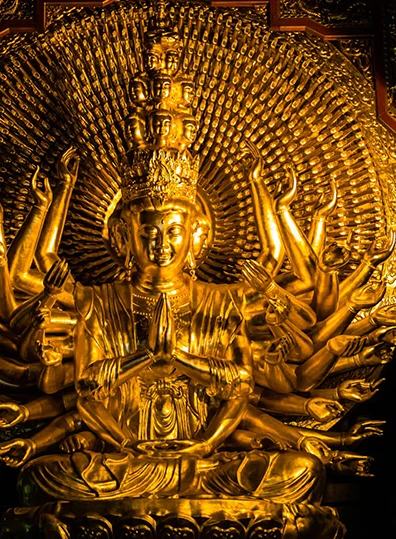
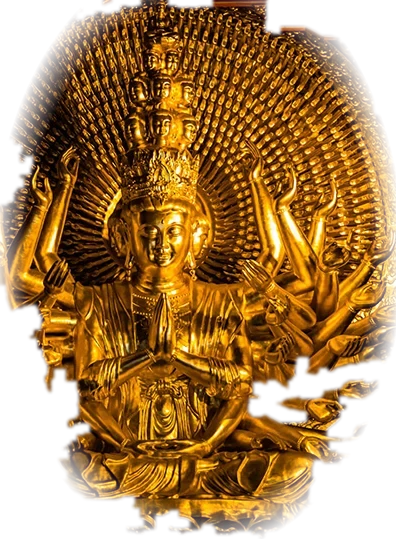
Quan Âm nghìn tay tách nền, đặt trong cảnh (ao sen Một Cột, biển Linh Ứng, hang chùa Hương) thay vì dán ảnh chữ nhật; giờ tụng kinh có 3 vị sư khoác cà sa ngồi giữa hàng đầu chánh điện, gõ mõ, có chuông; cân bằng công đức: tu tập miễn phí tối đa 300/ngày (lễ vật mua & hòm công đức không giới hạn), đ
Claude-Session: https://claude.ai/code/session_01BG8B92ZXXVKjeiGx2spFjc

diff --git a/chua-binh-an/js/g3d/main.js b/chua-binh-an/js/g3d/main.js
@@ -43,6 +43,17 @@ function addBeads(n, why) {
   const lv0 = levelOf(P.beads); P.beads += n; save(); hud();
   if (levelOf(P.beads) > lv0) { const L = C.levels[levelOf(P.beads)]; banner('🪷 Thăng cấp', `Cấp ${levelOf(P.beads) + 1} · ${L.name}`); A.smallBell(); }
 }
+/* công đức từ tu tập miễn phí (hương, mõ, lễ vật thường, đèn nguyện) có giới hạn mỗi ngày → bảng công đức & hào quang công bằng;
+   lễ vật mua bằng hoa sen và hòm công đức không giới hạn */
+function addMerit(n, free) {
+  if (!free) { P.merit += n; return n; }
+  const d = kinhVN(), key = `${d.getFullYear()}-${d.getMonth() + 1}-${d.getDate()}`, cap = (C.meritDailyCap ?? 300);
+  if (P.mfDay !== key) { P.mfDay = key; P.mfToday = 0; }
+  const g = Math.max(0, Math.min(n, cap - P.mfToday)); P.mfToday += g; P.merit += g;
+  if (g < n && addMerit.warned !== key) { addMerit.warned = key; toast(`🪷 Hôm nay đã đủ ${cap} công đức tu tập · vẫn được cộng hạt, mai tiếp tục nhé`); }
+  return g;
+}
+const meritTxt = (g) => g ? `+${g} công đức` : 'đã đủ công đức hôm nay';
 function checkIn() {
   const d = new Date(Date.now() + (new Date().getTimezoneOffset() + 420) * 60000), key = `${d.getFullYear()}-${d.getMonth() + 1}-${d.getDate()}`;
   if (P.lastDay === key) return;
@@ -84,11 +95,12 @@ Object.assign(sun.shadow.camera, { left: -30, right: 30, top: 30, bottom: -30, n
 let W = null, temple = null, smokes = [];
 const me = { av: null, pos: new THREE.Vector3(), y: 0, yaw: 0, seated: null, busy: null, label: null };
 const cam = { yaw: 0, pitch: 0.38, dist: 6.5 };   // yaw 0: camera ở phía +z sau lưng, nhìn về -z (phía chùa)
-const npcs = []; let abbot = null;
+const npcs = []; let abbot = null, monks = null;   // monks: 3 vị sư tụng kinh (chỉ trong giờ tụng)
 
 let meritLbl = null;
 function disposeWorld() {
   if (!W) return;
+  hideMonks();
   scene.remove(W.root); W.root.traverse(o => { if (o.geometry) o.geometry.dispose(); });
   smokes.forEach(s => s.dispose && s.dispose()); smokes = [];
   [...npcs, abbot].forEach(n => n && n.label && n.label.remove()); npcs.length = 0; abbot = null;
@@ -172,6 +184,7 @@ function npcThink(n, dt) {
     const hall = W.halls[0];
     if (hall && Math.random() < (n.hall ? 0.92 : 0.45)) { const free = hall.cushions.filter(c => !c.taken && !(me.seated === c)); if (free.length) { const c = free[(Math.random() * free.length) | 0]; c.taken = true; n.target = c.clone(); n.goSit = c; } }
     if (!n.target) {
+      if (n.hall && hall && monks) { n.wait = 3; return false; }   // đang tụng kinh: không đi qua lại trước quý thầy
       if (n.hall && hall) { const a = hall.altar; n.target = new THREE.Vector3(a.x + (Math.random() - 0.5) * 4, 0, a.z + 2.5 + Math.random() * 2.5); }   // bot trong điện quanh quẩn gần bàn thờ
       else { const L = W.layout; n.target = new THREE.Vector3(L.spawn[0] + (Math.random() - 0.5) * 22, 0, L.spawn[1] - Math.random() * 18); }
     }
@@ -333,7 +346,7 @@ function offerIncense(bur) {
   me.yaw = Math.atan2(bur.x - me.pos.x, bur.z - me.pos.z); cam.yaw = me.yaw + Math.PI; me.av.setPose('incense'); A.mo(1);
   if (S.voiceBow !== false) setTimeout(() => A.say('Nam mô A Di Đà Phật', { force: true, rate: 0.82, pitch: 0.85 }), 900);
   setTimeout(() => { me.av.bow(); }, 600); NET.act('incense');
-  setTimeout(() => { me.av.setPose('idle'); smokeBoost = 4; P.merit += 10; addBeads(10); toast('🕯 Đã thắp nén hương · +10 công đức'); }, 2800);
+  setTimeout(() => { me.av.setPose('idle'); smokeBoost = 4; const gm = addMerit(10, true); addBeads(10); toast('🕯 Đã thắp nén hương · ' + meritTxt(gm)); }, 2800);
 }
 let smokeBoost = 0;
 function ringBell() { if (Date.now() - (ringBell.t || 0) < 20000) return toast('Tiếng chuông còn đang ngân…'); ringBell.t = Date.now(); A.bigBell(); me.av.bow(); NET.act('bell'); addBeads(9); toast('🔔 Một hồi chuông vang xa · nguyện chúng sanh thức tỉnh'); }
@@ -470,7 +483,7 @@ async function runVoice(run) {
 function chantBeat(manual) {
   if (!ch) return;
   A.mo(manual ? 1 : 0.7); paintMo(1);
-  if (manual) { ch.taps++; P.merit += 1; addBeads(1); $('cMerit').textContent = `+${ch.taps} công đức`; }
+  if (manual) { ch.taps++; ch.got = (ch.got || 0) + addMerit(1, true); addBeads(1); $('cMerit').textContent = `+${ch.got} công đức`; }
   if (!$('optVoice').checked && ++ch.beats >= 4) nextChantLine();
 }
 function restartMo() { clearInterval(moTimer); if ($('optAuto').checked) moTimer = setInterval(() => chantBeat(false), 60000 / (+$('optTempo').value || 60)); }
@@ -632,7 +645,7 @@ function carryOffering(o) {
       const fly = () => { const k = Math.min(1, (performance.now() - t0) / 700); item.position.lerpVectors(from, slot, k); item.position.y += Math.sin(k * Math.PI) * 0.25; if (k < 1) requestAnimationFrame(fly); };
       fly();
       me.av.setPose('idle'); setTimeout(() => { me.av.bow(); A.smallBell(); if (S.voiceBow !== false) A.say('Nam mô A Di Đà Phật', { force: true, rate: 0.82, pitch: 0.85 }); }, 600);
-      P.merit += o.m; addBeads(o.m); toast(`${o.icon} Đã dâng ${o.n.toLowerCase()} · +${o.m} công đức`); ticker(`${o.icon} ${P.name} vừa dâng ${o.n.toLowerCase()} lên Tam Thế Phật`); NET.act('offer', o.n.toLowerCase());
+      const gm = addMerit(o.m, !o.price); addBeads(o.m); toast(`${o.icon} Đã dâng ${o.n.toLowerCase()} · ${meritTxt(gm)}`); ticker(`${o.icon} ${P.name} vừa dâng ${o.n.toLowerCase()} lên Tam Thế Phật`); NET.act('offer', o.n.toLowerCase());
     });
   };
   const inside = insideHall(h);
@@ -641,7 +654,9 @@ function carryOffering(o) {
 
 /* Đèn nguyện */
 const lanterns = [];
+let lastLantern = 0;
 function openWish() {
+  const wait = 120000 - (Date.now() - lastLantern); if (wait > 0) return toast(`🏮 Đèn nguyện trước còn đang bay · đợi ${Math.ceil(wait / 1000)} giây`);
   modal('Thả đèn nguyện', (b) => {
     const ta = el('textarea'); ta.id = 'wish'; ta.rows = 3; ta.maxLength = 80; ta.placeholder = 'VD: Nguyện cho mẹ con mau khỏe, gia đình bình an';
     const err = el('p', 'note warn'); err.hidden = true;
@@ -670,6 +685,7 @@ function lanternMesh() {
   return g;
 }
 function releaseLantern(text) {
+  lastLantern = Date.now();
   const g = lanternMesh(); g.userData.tmp = true;
   const h = W.halls[0], inHall = h && insideHall(h);
   // trong chánh điện: đèn bay lên trước Tam Thế Phật
@@ -680,7 +696,7 @@ function releaseLantern(text) {
   const lbl = label('🏮 ' + text, 'wishlbl'); lbl.title = text;
   const tgt = inHall ? h.altar.clone().lerp(me.pos, 0.35) : null;
   lanterns.push({ g, t: 0, lbl, tgt, seed: Math.random() * 6, ceil: inHall ? h.ceilY : 0 });
-  P.merit += 5; addBeads(5); toast('🏮 Đèn nguyện đã bay lên · +5 công đức'); A.khanh();
+  const gm = addMerit(5, true); addBeads(5); toast('🏮 Đèn nguyện đã bay lên · ' + meritTxt(gm)); A.khanh();
   ticker(`🏮 ${P.name} vừa thả đèn nguyện: “${text}”`); NET.act('lantern');
   if (S.voiceBow !== false) setTimeout(() => A.say('Nam mô A Di Đà Phật', { force: true, rate: 0.82, pitch: 0.85 }), 700);
   save();
@@ -876,9 +892,10 @@ $('kinhBar').onclick = () => {
   kinhTick(true);
 };
 function kinhTick(force) {
-  if (!W) { if (kinhAudio) stopKinh(); $('kinhBar').hidden = true; kinhWinNow = null; return; }
+  if (!W) { if (kinhAudio) stopKinh(); $('kinhBar').hidden = true; kinhWinNow = null; hideMonks(); return; }
   const win = currentKinhWindow(); kinhWinNow = win;
-  if (!win) { stopKinh(); $('kinhBar').hidden = true; return; }
+  if (!win) { stopKinh(); $('kinhBar').hidden = true; hideMonks(); return; }
+  showMonks();
   // thông báo cho mọi người khi tới giờ (mỗi khung một lần)
   if (win.id !== kinhNotified) {
     kinhNotified = win.id;
@@ -890,6 +907,56 @@ function kinhTick(force) {
   if (!inHall) { pauseKinh(); $('kinhBar').hidden = true; return; }
   showKinhBar(win, muted);
   if (muted) pauseKinh(); else playKinh(win);
+}
+/* ---------------- giờ tụng kinh: 3 vị sư khoác cà sa ngồi giữa hàng đầu, gõ mõ, thỉnh chuông ---------------- */
+function monkSpots(h) {
+  const a = h.altar, cs = h.cushions; if (!cs.length) return null;
+  let cx = 0, cz = 0; cs.forEach(c => { cx += c.x; cz += c.z; }); cx /= cs.length; cz /= cs.length;
+  const L = Math.hypot(cx - a.x, cz - a.z) || 1, u = new THREE.Vector3((cx - a.x) / L, 0, (cz - a.z) / L), v = new THREE.Vector3(u.z, 0, -u.x);
+  const info = cs.map(c => ({ c, s: (c.x - a.x) * u.x + (c.z - a.z) * u.z, l: (c.x - a.x) * v.x + (c.z - a.z) * v.z }));
+  const f = Math.min(...info.map(i => i.s)), front = info.filter(i => i.s < f + 0.3), y = front[0].c.y;
+  if (!front.some(i => Math.abs(i.l) < 1.0)) {   // hàng đầu chừa lối giữa → sư ngồi ngay giữa lối đó
+    return { u, seats: [], spots: [-1.15, 0, 1.15].map(l => new THREE.Vector3(a.x + u.x * f + v.x * l, y, a.z + u.z * f + v.z * l)) };
+  }
+  const pick = front.filter(i => me.seated !== i.c).sort((p, q) => Math.abs(p.l) - Math.abs(q.l)).slice(0, 3).sort((p, q) => p.l - q.l);   // 3 đệm giữa hàng đầu
+  return { u, seats: pick.map(i => i.c), spots: pick.map(i => i.c.clone()) };
+}
+function showMonks() {
+  if (monks || !W || !W.halls[0]) return;
+  const h = W.halls[0], sp = monkSpots(h); if (!sp || sp.spots.length < 3) return;
+  sp.seats.forEach(c => { c.taken = true; npcs.forEach(n => { if (n.sit === c) { n.sit = null; n.av.setPose('idle'); n.wait = 0.3; } if (n.goSit === c) { n.goSit = null; n.target = null; } }); });
+  const props = new THREE.Group(); props.userData.tmp = true; scene.add(props);
+  const M = (c, o = {}) => new THREE.MeshStandardMaterial(Object.assign({ color: c, roughness: 0.6 }, o));
+  const list = sp.spots.map((p, i) => {
+    const av = new Avatar({ look: { g: 'nam', hair: 'troc' }, seed: 31 + i * 17, kasaya: true });
+    av.root.position.copy(p); av.root.rotation.y = Math.atan2(h.altar.x - p.x, h.altar.z - p.z); av.setPose('lotus'); av.root.userData.tmp = true; scene.add(av.root);
+    const mat = new THREE.Mesh(new THREE.CylinderGeometry(0.42, 0.44, 0.08, 24), M(0xe0a93a)); mat.position.set(p.x, p.y - 0.03, p.z); props.add(mat);   // tọa cụ vàng
+    return { av, label: i === 1 ? label('🙏 Chư Tăng đang tụng kinh', 'abbot') : null };   // một nhãn chung trên vị giữa, không chồng nhau
+  });
+  const fwd = (p, d) => new THREE.Vector3(p.x - sp.u.x * d, p.y, p.z - sp.u.z * d);
+  // mõ gỗ trước vị sư giữa + dùi gõ
+  const mp = fwd(sp.spots[1], 0.55);
+  const mo = new THREE.Mesh(new THREE.SphereGeometry(0.16, 16, 12), M(0x8a2414, { roughness: 0.45 })); mo.scale.set(1, 0.72, 0.9); mo.position.set(mp.x, mp.y + 0.13, mp.z); props.add(mo);
+  const moBase = new THREE.Mesh(new THREE.CylinderGeometry(0.2, 0.22, 0.05, 16), M(0xa3231a)); moBase.position.set(mp.x, mp.y + 0.02, mp.z); props.add(moBase);
+  const striker = new THREE.Group(); striker.position.set(mp.x + sp.u.z * 0.12, mp.y + 0.36, mp.z - sp.u.x * 0.12); striker.rotation.y = Math.atan2(sp.u.x, sp.u.z); props.add(striker);
+  const stick = new THREE.Mesh(new THREE.CylinderGeometry(0.012, 0.012, 0.26, 6), M(0x6a3a18)); stick.position.set(0, 0, 0.12); stick.rotation.x = Math.PI / 2; striker.add(stick);
+  const knob = new THREE.Mesh(new THREE.SphereGeometry(0.03, 8, 6), M(0x3a1a0c)); knob.position.set(0, 0, 0.25); striker.add(knob);
+  // chuông gia trì trước vị sư bên phải
+  const bp = fwd(sp.spots[2], 0.55);
+  const bellCush = new THREE.Mesh(new THREE.CylinderGeometry(0.17, 0.17, 0.07, 16), M(0xa3231a)); bellCush.position.set(bp.x, bp.y + 0.035, bp.z); props.add(bellCush);
+  const bell = new THREE.Mesh(new THREE.CylinderGeometry(0.15, 0.1, 0.16, 20, 1, true), M(0xc89a3a, { metalness: 0.7, roughness: 0.3, side: THREE.DoubleSide })); bell.position.set(bp.x, bp.y + 0.15, bp.z); props.add(bell);
+  monks = { list, seats: sp.seats, props, striker, t: 0 };
+  ticker('🙏 Quý thầy đã an tọa giữa hàng đầu chánh điện · bắt đầu khóa tụng');
+}
+function hideMonks() {
+  if (!monks) return;
+  monks.list.forEach(m => { scene.remove(m.av.root); if (m.label) m.label.remove(); }); scene.remove(monks.props);
+  monks.seats.forEach(c => { if (me.seated !== c) c.taken = false; }); monks = null;
+}
+function stepMonks(dt) {
+  if (!monks) return; monks.t += dt;
+  monks.list.forEach(m => { m.av.update(dt, false); if (m.label) placeLabel(m.label, m.av.root.position, m.av.height + 0.15); });
+  const ph = (monks.t * 1.65) % 1; monks.striker.rotation.x = ph < 0.18 ? 0.55 * Math.sin(ph / 0.18 * Math.PI) : 0;   // gõ mõ đều tay
 }
 setInterval(() => kinhTick(), 1000);
 
@@ -1508,7 +1575,7 @@ function loop() {
     sun.position.set(me.pos.x + 25, 45, me.pos.z + 20); sun.target.position.copy(tgt);
     // NPC, sư trụ trì, nhãn
     npcs.forEach(n => { const mv = npcThink(n, dt); n.av.update(dt, mv); placeLabel(n.label, n.av.root.position, n.av.height + 0.15); });
-    NET.step(dt);
+    NET.step(dt); stepMonks(dt);
     if (abbot) { abbot.av.update(dt, false); abbot.av.root.rotation.y = Math.atan2(me.pos.x - abbot.av.root.position.x, me.pos.z - abbot.av.root.position.z); placeLabel(abbot.label, abbot.av.root.position, abbot.av.height + 0.15); }
     placeLabel(me.label, me.av.root.position, me.av.height + 0.15);
     chatStep(); stepMeCushion(t);

diff --git a/chua-binh-an/js/g3d/avatar.js b/chua-binh-an/js/g3d/avatar.js
@@ -14,7 +14,18 @@ function auraTex() {
   _auraTex = new THREE.CanvasTexture(c); _auraTex.colorSpace = THREE.SRGBColorSpace; return _auraTex;
 }
 
-const ROBES = { lam: 0x6f86b8, nau: 0x9a6a42, xam: 0x8c8f9a, trang: 0xeeeef4, vang: 0xf0b93a, tang: 0xd9822b };
+let _kasayaTex = null;
+function kasayaTex() {   // cà sa: các ô ruộng (điền y) nâu đỏ, đường chỉ mảnh
+  if (_kasayaTex) return _kasayaTex;
+  const c = document.createElement('canvas'); c.width = c.height = 128; const g = c.getContext('2d');
+  g.fillStyle = '#b4561f'; g.fillRect(0, 0, 128, 128);
+  for (let i = 0; i < 5; i++) for (let j = 0; j < 4; j++) { g.fillStyle = (i + j) % 2 ? 'rgba(200,104,40,.55)' : 'rgba(150,66,22,.35)'; g.fillRect(i * 25.6 + 2, j * 32 + 2, 21.6, 28); }
+  g.strokeStyle = 'rgba(122,48,16,.9)'; g.lineWidth = 2; for (let x = 0; x <= 128; x += 25.6) { g.beginPath(); g.moveTo(x, 0); g.lineTo(x, 128); g.stroke(); }
+  for (let y = 0; y <= 128; y += 32) { g.beginPath(); g.moveTo(0, y); g.lineTo(128, y); g.stroke(); }
+  _kasayaTex = new THREE.CanvasTexture(c); _kasayaTex.colorSpace = THREE.SRGBColorSpace; _kasayaTex.wrapS = _kasayaTex.wrapT = THREE.RepeatWrapping; _kasayaTex.repeat.set(3, 1); return _kasayaTex;
+}
+
+const ROBES = { lam: 0x6f86b8, nau: 0x9a6a42, xam: 0x8c8f9a, trang: 0xeeeef4, vang: 0xf0b93a, tang: 0xd9822b, hau: 0xe9a83a };
 const SKINS = [0xf2c9a2, 0xe6b48a, 0xf6d6b4, 0xd29e74];
 const HAIRC = [0x1f1612, 0x2c1d14, 0x3a2618];
 const grad = (() => { const d = new Uint8Array([90, 170, 255]); const t = new THREE.DataTexture(d, 3, 1, THREE.RedFormat); t.minFilter = t.magFilter = THREE.NearestFilter; t.needsUpdate = true; return t; })();
@@ -35,16 +46,16 @@ const POSES = {
 };
 
 export class Avatar {
-  constructor({ look = {}, seed = 1, monk = false } = {}) {
+  constructor({ look = {}, seed = 1, monk = false, kasaya = false } = {}) {
     this.look = Object.assign({ g: 'nu', hair: 'bui', robe: 'lam' }, look);
     this.root = new THREE.Group(); this.root.userData.avatar = this;
-    this.pose = Object.assign({}, POSES.idle); this.target = 'idle'; this.walkT = 0; this.speed = 0; this.bowT = -1; this.monk = monk;
+    this.pose = Object.assign({}, POSES.idle); this.target = 'idle'; this.walkT = 0; this.speed = 0; this.bowT = -1; this.monk = monk || kasaya; this.kasaya = kasaya;
     this.skin = SKINS[seed % 4]; this.hairC = HAIRC[(seed >>> 2) % 3];
     this.build();
   }
   build() {
     const r = this.root; while (r.children.length) r.remove(r.children[0]);
-    const L = this.look, nu = L.g === 'nu', sk = T(this.skin), robeC = ROBES[this.monk ? 'tang' : L.robe] || ROBES.lam;
+    const L = this.look, nu = L.g === 'nu', sk = T(this.skin), robeC = ROBES[this.kasaya ? 'hau' : this.monk ? 'tang' : L.robe] || ROBES.lam;
     const robe = T(robeC), robeD = T(new THREE.Color(robeC).multiplyScalar(0.82)), gold = T(0xe0a93a), hairM = T(this.hairC), dark = T(0x2a1a14), bead = T(0xb7774a);
     this.hips = pivot(0, 0.5, 0); r.add(this.hips);
     // vạt áo dưới (dáng chuông)
@@ -99,7 +110,16 @@ export class Avatar {
     }
     if (hair === 'dai') put(head, part(new THREE.CapsuleGeometry(0.15, nu ? 0.3 : 0.12, 6, 12), hairM, 0, hy - (nu ? 0.28 : 0.15), -hr * 0.72)).scale.set(1.15, 1, 0.45);
     if (hair === 'ngan') head.add(part(new THREE.SphereGeometry(hr * 1.06, 24, 14, 0, Math.PI * 2, 0, Math.PI * 0.42), hairM, 0, hy + 0.01, -0.01));
-    if (this.monk) put(this.torso, part(new THREE.TorusGeometry(0.2, 0.035, 6, 24), T(0xa83a14), 0, 0.2, 0)).rotation.set(Math.PI / 2 - 0.2, -0.6, 0);
+    if (this.monk && !this.kasaya) put(this.torso, part(new THREE.TorusGeometry(0.2, 0.035, 6, 24), T(0xa83a14), 0, 0.2, 0)).rotation.set(Math.PI / 2 - 0.2, -0.6, 0);
+    if (this.kasaya) {   // áo cà sa khoác ngoài áo hậu vàng: phủ thân & vạt dưới, chừa vai phải, viền vàng chéo từ vai trái
+      const km = T(0xffffff, { map: kasayaTex(), side: THREE.DoubleSide });
+      const body = part(new THREE.LatheGeometry([[0.285, -0.01], [0.262, 0.16], [0.232, 0.3], [0.18, 0.39]].map(([r, y]) => new THREE.Vector2(r, y)), 28, Math.PI * 0.62, Math.PI * 1.62), km);
+      this.torso.add(body);
+      const skirtK = part(new THREE.LatheGeometry([[0.385, -0.295], [0.365, -0.22], [0.315, -0.08], [0.278, 0.025]].map(([r, y]) => new THREE.Vector2(r, y)), 28), km);
+      this.skirt.add(skirtK);   // co giãn cùng vạt áo khi ngồi
+      put(this.torso, part(new THREE.TorusGeometry(0.235, 0.022, 6, 30), T(0xf0c25a), 0, 0.2, 0)).rotation.set(Math.PI / 2 - 0.35, 0.75, 0);   // viền cà sa chéo ngực
+      put(this.torso, part(new THREE.SphereGeometry(0.035, 8, 6), T(0xf0c25a), -0.17, 0.33, 0.12));   // khoen cà sa trên vai trái
+    }
     // vầng hào quang (khi được Phật Quang chiếu)
     this.halo = part(new THREE.RingGeometry(0.3, 0.36, 40), new THREE.MeshBasicMaterial({ color: 0xffe08a, transparent: true, opacity: 0.9, side: THREE.DoubleSide, toneMapped: false }), 0, hy, -0.12); this.halo.visible = false; head.add(this.halo);
     this.apply();

diff --git a/chua-binh-an/js/temple3d.js b/chua-binh-an/js/temple3d.js
@@ -250,7 +250,7 @@ const BUDDHA_IMG = {
   adida:   ['assets/buddha/adida.webp', 576 / 700, 'one', true],
   duocsu:  ['assets/buddha/duocsu.webp', 442 / 700, 'one', true],
   dilac:   ['assets/buddha/dilac.webp', 617 / 700, 'one', true],
-  quanam:  ['assets/buddha/quanam.webp', 396 / 539, 'one', false]
+  quanam:  ['assets/buddha/quanam.webp', 396 / 539, 'one', true]
 };
 const ALTAR_LABEL = { tamthe: 'ĐẠI HÙNG BẢO ĐIỆN', thichca: 'ĐẠI HÙNG BẢO ĐIỆN', adida: 'CỰC LẠC BẢO ĐIỆN', duocsu: 'DƯỢC SƯ BẢO ĐIỆN', dilac: 'ĐẠI HÙNG BẢO ĐIỆN', quanam: 'QUAN ÂM BẢO ĐIỆN' };
 let _carved = null;
@@ -302,7 +302,7 @@ function altarPanel(g, w, d, base, h, set) {
   // 3) bức Phật đặt sâu trong khám
   const btex = texLoader.load(src); btex.colorSpace = THREE.SRGBColorSpace; btex.anisotropy = 4;
   // ảnh đã tách nền → vẽ trong suốt để lộ bức tranh nền phía sau; ảnh có nền sẵn → vẽ đặc
-  const imgMat = cut ? new THREE.MeshBasicMaterial({ map: btex, transparent: true, alphaTest: 0.35, toneMapped: false })
+  const imgMat = cut ? new THREE.MeshBasicMaterial({ map: btex, transparent: true, alphaTest: 0.04, depthWrite: false, toneMapped: false })
                      : new THREE.MeshBasicMaterial({ map: btex, toneMapped: false });
   const img = new THREE.Mesh(new THREE.PlaneGeometry(pw, ph), imgMat); img.position.set(0, cy, zf + 0.14); nc(img);
   if (!cut) frameRect(g, 0, cy, zf + 0.17, pw + 0.14, ph + 0.14, 0.09, 0.2, gold);   // ảnh có nền → khung vàng sát quanh ảnh (như tranh treo trên vách cảnh)

diff --git a/chua-binh-an/sw.js b/chua-binh-an/sw.js
@@ -1,6 +1,6 @@
 /* Service worker: cho phép cài game về điện thoại và chơi được khi mạng yếu.
    Đổi VER mỗi lần cập nhật lớn để máy người chơi tải bản mới. */
-const VER = 'cba-v22';
+const VER = 'cba-v23';
 const CORE = [
   'game.html', 'manifest.webmanifest', 'css/game.css',
   'js/config.js', 'js/content.js', 'js/lunar.js', 'js/stories.js', 'js/temples.js', 'js/audio.js', 'js/shop-config.js', 'js/kinh-config.js', 'js/cau-hinh-rieng.js', 'js/temple3d.js',

diff --git a/chua-binh-an/js/config.js b/chua-binh-an/js/config.js
@@ -74,6 +74,9 @@ CBA.config = {
     { at: 1080000, name: 'Viên Mãn Tâm' }
   ],
 
+  /* Công đức tối đa mỗi ngày từ tu tập miễn phí (hương, mõ, lễ vật thường, đèn nguyện). Lễ vật mua & hòm công đức không giới hạn. */
+  meritDailyCap: 300,
+
   /* Chuỗi ngày lên chùa: tương tác ít nhất 1 lần mỗi ngày (giờ Việt Nam) */
   streak: { bonusPerDay: 3, maxBonus: 21, specialDays: [7, 21, 49, 100] },
 
